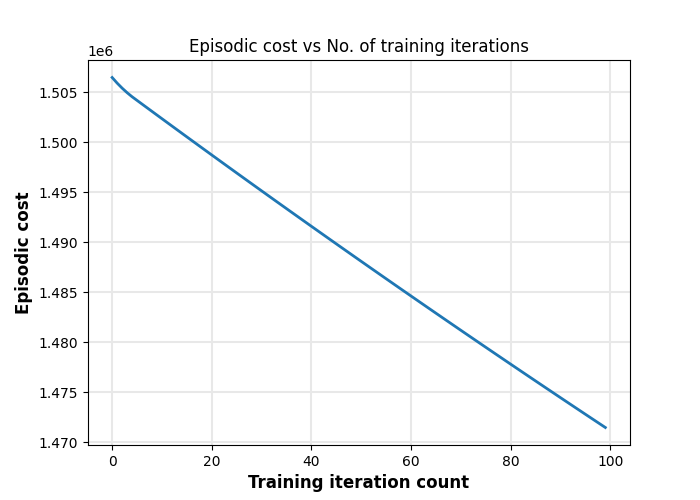
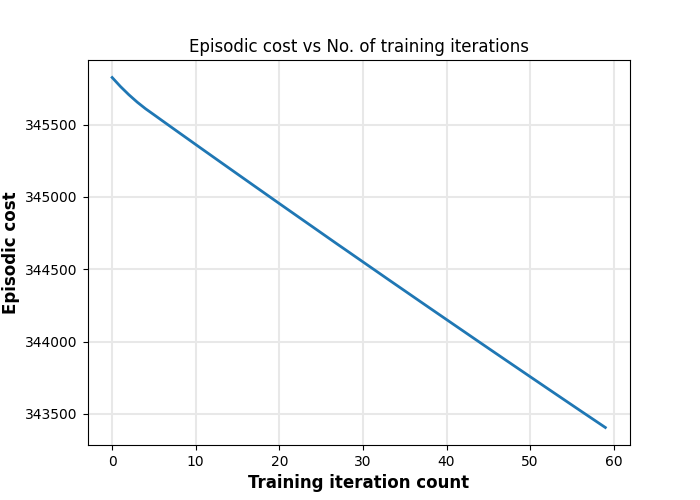
Added rollouts based LTV sys id

diff --git a/Iterative_LQR (iLQR)/examples/vdp/run_vdp_pod_ilqr.py b/Iterative_LQR (iLQR)/examples/vdp/run_vdp_pod_ilqr.py
@@ -18,7 +18,8 @@ from sim_vdp import SimulateVDP
 from vdp_params import *
 from main_ilqr import iLQR
 from ltv_sys_id import LTV_SysID
-
+from arma_ltv_sys_id import ARMA_LTV_SysID
+import sys
 class RunVdp(SimulateVDP):
 
     def __init__(self, mu, state_dimension, control_dimension, dt, C):
@@ -26,7 +27,7 @@ class RunVdp(SimulateVDP):
         self.C = C
 
     def simulate(self,x,u):
-        return self.C*self.simulate_vdp(x, u)[-1]
+        return self.C@ self.simulate_vdp(x, u)[-1]
 
 
 if __name__=="__main__":
@@ -58,20 +59,21 @@ if __name__=="__main__":
 
     # Create iLQR instance
     ilqr = iLQR(run_vdp, state_dimension, control_dimension, alpha, horizon, init_state, final_state, Q, Q_final, R, 
-                nominal_init_stddev, n_sys_id_samples=500, pert_sys_id_sigma=1e-7)
-    ilqr.iterate_ilqr(n_iterations)
+                nominal_init_stddev, n_sys_id_samples=500, pert_sys_id_sigma=1e-3)
+    #ilqr.iterate_ilqr(n_iterations)
 
-    ilqr.plot_episodic_cost_history(path_to_training_cost_fig)
-    ilqr.save_policy(path_to_policy_file)
-    ilqr.save_cost(path_to_cost_file)
+    #ilqr.plot_episodic_cost_history(path_to_training_cost_fig)
+    #ilqr.save_policy(path_to_policy_file)
+    #ilqr.save_cost(path_to_cost_file)
 
     # Check and Simulate the obtained policy
-    print
-    run_vdp.simulate_vdp(y_init = init_state.flatten(), u = ilqr.U.flatten(), horizon=horizon)
-    run_vdp.draw_figure(path_to_traj_fig)
+    #run_vdp.simulate_vdp(y_init = init_state.flatten(), u = ilqr.U.flatten(), horizon=horizon)
+    #run_vdp.draw_figure(path_to_traj_fig)
 
     # Test sys_id
-    """ x_t = np.array([2.0,0.0]).reshape(state_dimension,1)
+    arma_ltv_sysid = ARMA_LTV_SysID(run_vdp, state_dimension, control_dimension, 1, C, q, q_u, horizon, n_samples=500, pert_sigma = 1e-3)
+    x_t = np.array([2.0,0.0]).reshape(state_dimension,1)
     u_t = np.array([0]).reshape(control_dimension,1)
-    AB = model.sys_id(x_t,u_t)
-    print(AB) """
+    
+    A, B = arma_ltv_sysid.traj_sys_id(np.concatenate((ilqr.X_0.reshape(1, ilqr.n_x, 1), ilqr.X), axis=0), ilqr.U.reshape(horizon, control_dimension))
+    print(A, B)

diff --git a/Iterative_LQR (iLQR)/src/ltv_sys_id.py b/Iterative_LQR (iLQR)/src/ltv_sys_id.py
@@ -5,11 +5,12 @@ np.random.seed(42)
 
 class LTV_SysID:
 
-    def __init__(self, MODEL, n_x, n_u, n_samples=500, pert_sigma = 1e-7):
+    def __init__(self, MODEL, n_x, n_u, N, n_samples=500, pert_sigma = 1e-7):
         self.model = MODEL
-        self.n_x = n_x
-        self.n_u = n_u
-        self.n_samples = n_samples      
+        self.n_x = n_x # State dimension
+        self.n_u = n_u # Control dimension
+        self.N = N # Horizon length
+        self.n_samples = n_samples       
         self.sigma = pert_sigma # Standard deviation of the perturbation 
 
     def sys_id_state_pertb(self, x_t, u_t):
@@ -52,5 +53,34 @@ class LTV_SysID:
         
         return np.array(traj_AB)
     
-    def traj_sys_id(self, x_nom, u_nom, central_diff=0): #TODO rollout
-        return
+    def traj_sys_id(self, x_nom, u_nom, central_diff=0): #TODO rollout 
+        
+        
+        delta_x = np.zeros(((self.N+1), self.n_x, self.n_samples))
+        X, U_ = self.generate_rollouts(x_nom, u_nom)
+        traj_AB = []
+
+        # Generating delta_x for all rollouts
+        for i in range(self.N+1):
+            delta_x[i] = X[i] - x_nom[i]
+            if i>0:
+                regressor = np.hstack([delta_x[i-1,:].T, (U_[i-1].T).reshape(self.n_samples, self.n_u)])
+                AB = np.linalg.lstsq(regressor, delta_x[i].T, rcond=None)[0].T
+                traj_AB.append(AB)
+                           
+        return traj_AB
+    
+    def generate_rollouts(self, x_nom, u_nom):
+        # Taking control perturbations as a function of max control
+        u_max = np.max(abs(u_nom))
+        U_ = self.sigma*u_max*np.random.normal(0, self.sigma, (self.N+1, self.n_u, self.n_samples))
+        X = np.zeros((self.N+1, self.n_x, self.n_samples))
+        ctrl = np.zeros((self.n_u, 1))
+
+        for j in range(self.n_samples):
+            X[0, :, j] = x_nom[0].flatten()
+            for i in range(self.N):
+                ctrl[:] = u_nom[i] + U_[i,:,j].reshape(np.shape(u_nom[i]))
+                X[i+1, :, j] = self.model.simulate(X[i, :, j], ctrl.flatten()).flatten()
+
+        return X, U_

diff --git a/Iterative_LQR (iLQR)/src/main_ilqr.py b/Iterative_LQR (iLQR)/src/main_ilqr.py
@@ -20,10 +20,11 @@ class iLQR:
         self.nominal_init_stddev = nominal_init_stddev
         if arma_sys_id_flag:
             from arma_ltv_sys_id import ARMA_LTV_SysID
-            self.ltv_sys_id = ARMA_LTV_SysID(self.model, n_x, n_u, n_z=n_x, n_samples = n_sys_id_samples, pert_sigma = pert_sys_id_sigma)
+            #self.ltv_sys_id = ARMA_LTV_SysID(self.model, n_x, n_u, n_z=n_x, n_samples = n_sys_id_samples, pert_sigma = pert_sys_id_sigma)
+            self.ltv_sys_id = ARMA_LTV_SysID(self.model, n_x, n_u, n_x, np.eye(n_x), 1, 1, self.N, n_samples=n_sys_id_samples, pert_sigma = pert_sys_id_sigma)
         else:
             from ltv_sys_id import LTV_SysID
-            self.ltv_sys_id = LTV_SysID(self.model, n_x, n_u, n_samples = n_sys_id_samples, pert_sigma = pert_sys_id_sigma)
+            self.ltv_sys_id = LTV_SysID(self.model, n_x, n_u, n_samples = n_sys_id_samples, N = self.N, pert_sigma = pert_sys_id_sigma)
 
         widgets = [Percentage(), '   ', ETA(), ' (', Timer(), ')']
         self.pbar = ProgressBar(widgets=widgets)
@@ -100,10 +101,12 @@ class iLQR:
         del_J_alpha = 0
 
         Fx_Fu = self.ltv_sys_id.traj_sys_id_state_pertb(np.concatenate((self.X_0.reshape(1, self.n_x, 1), self.X), axis=0), self.U)
-
+        # Fx_Fu = self.ltv_sys_id.traj_sys_id(np.concatenate((self.X_0.reshape(1, self.n_x, 1), self.X), axis=0), self.U.reshape(self.N,self.n_u))
         for t in range(self.N-1, -1, -1):
             F_x = Fx_Fu[t][:,:self.n_x]
             F_u = Fx_Fu[t][:,self.n_x:]
+            # F_x = A_aug[t]
+            # F_u = B_aug[t]
             if t>0:
                 Q_x, Q_u, Q_xx, Q_uu, Q_ux = self.get_gradients(F_x,F_u,self.X[t-1],self.U[t],V_x[t], V_xx[t])
             else:

diff --git a/Iterative_LQR (iLQR)/examples/vdp/run_vdp_ilqr.py b/Iterative_LQR (iLQR)/examples/vdp/run_vdp_ilqr.py
@@ -49,14 +49,14 @@ if __name__=="__main__":
     print('Goal phase : \n', final_state)
 	
     # No. of ILQR iterations to run
-    n_iterations = 100
+    n_iterations = 60
 
     # Create model instance
     run_vdp = RunVdp(mu, state_dimension, control_dimension, dt)
 
     # Create iLQR instance
     ilqr = iLQR(run_vdp, state_dimension, control_dimension, alpha, horizon, init_state, final_state, Q, Q_final, R, 
-                nominal_init_stddev, n_sys_id_samples=100, pert_sys_id_sigma=1e-5)
+                nominal_init_stddev, n_sys_id_samples=20, pert_sys_id_sigma=1e-3, arma_sys_id_flag = False)
     ilqr.iterate_ilqr(n_iterations)
 
     ilqr.plot_episodic_cost_history(path_to_training_cost_fig)

diff --git a/Iterative_LQR (iLQR)/examples/vdp/vdp_params.py b/Iterative_LQR (iLQR)/examples/vdp/vdp_params.py
@@ -15,11 +15,11 @@ R = .05*np.eye(control_dimension)
 # Number of substeps in simulation
 ctrl_state_freq_ratio = 1
 dt = 0.01
-horizon = 20 #800
+horizon = 10 #800
 nominal_init_stddev = 0.1
 
-q = 1
-q_u = 1
+q = 2
+q_u = 2
 alpha = 0.7
 
 # Cost parameters for feedback design
